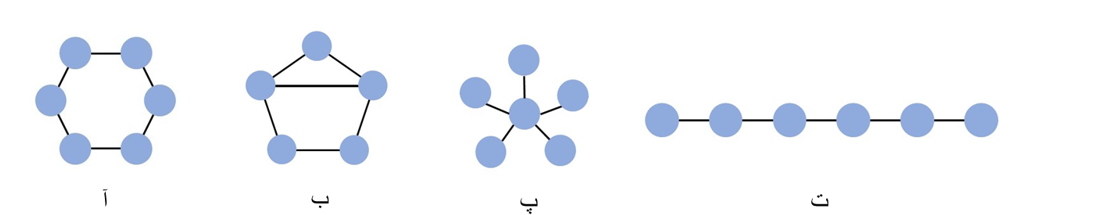
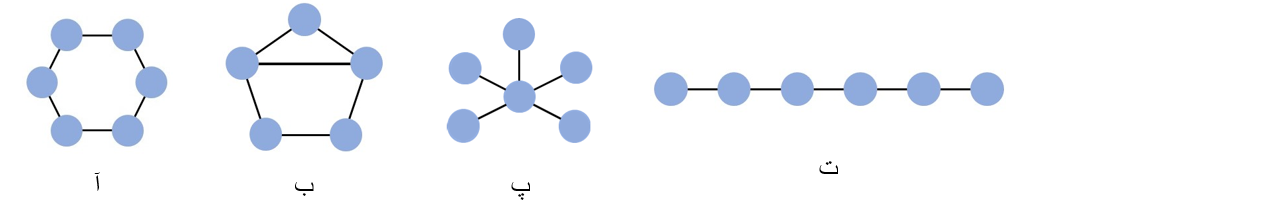
Edit Problem 52(2nd edition).

diff --git a/Contents/CombinatorialAnalysis/Problems/PermutationsandCombinations/52/q.tex b/Contents/CombinatorialAnalysis/Problems/PermutationsandCombinations/52/q.tex
@@ -1,15 +1,10 @@
 \p
 یک شکل را در نظر بگیرید که از n دایره تشکیل شده است و بین برخی از دایرهها پاره خطی رسم شده باشد. میخواهیم در دایرههای این شکل برچسبهای 1 تا n را بنویسیم 
 به طوری که اعداد واقع در هیچ دو دایرهای برابر نباشند. دو روش برچسبگذاری را متمایز گوییم هرگاه دو عدد وجود داشته باشند که دایرههای شامل این دو عدد در یکی مجاور و در دیگری غیر مجاور باشند.
-مثلا برچسبگذاریهای زیر یکسانند:
+مثلا برچسبگذاریهای زیر غیر متمایزند.:
 
-\begin{figure}[h]
-\centering
-\includegraphics[scale = 0.3]{./0.jpg}
-
-\end{figure}
-
-برای هر یک از شکلهای زیر تعداد راههای برچسب گذاری را بیابید:
-\centerimage{1.2}{./1.png}
+\centerimage{0.6}{./0.jpg}
+برای هر یک از شکلهای زیر تعداد راههای برچسبگذاری متمایز را بیابید:
+\centerimage{1}{./1.png}
 
 

diff --git a/Contents/CombinatorialAnalysis/Problems/PermutationsandCombinations/52/a.tex b/Contents/CombinatorialAnalysis/Problems/PermutationsandCombinations/52/a.tex
@@ -20,7 +20,7 @@ $\frac{n!}{2} = \frac{5!}{2}$
 شکل
 پ:
 \p
-دایره وسط را به 6 حالت میتوان برچسبگذاری کرد و دایرههای کناری همگی در فضا متقارناند پس جواب این حالت 6 است.
+دایرهی وسط را به 6 حالت میتوان برچسبگذاری کرد و دایرههای کناری همگی در فضا متقارناند. پس جواب این حالت 6 است.
 
 -
 شکل 
